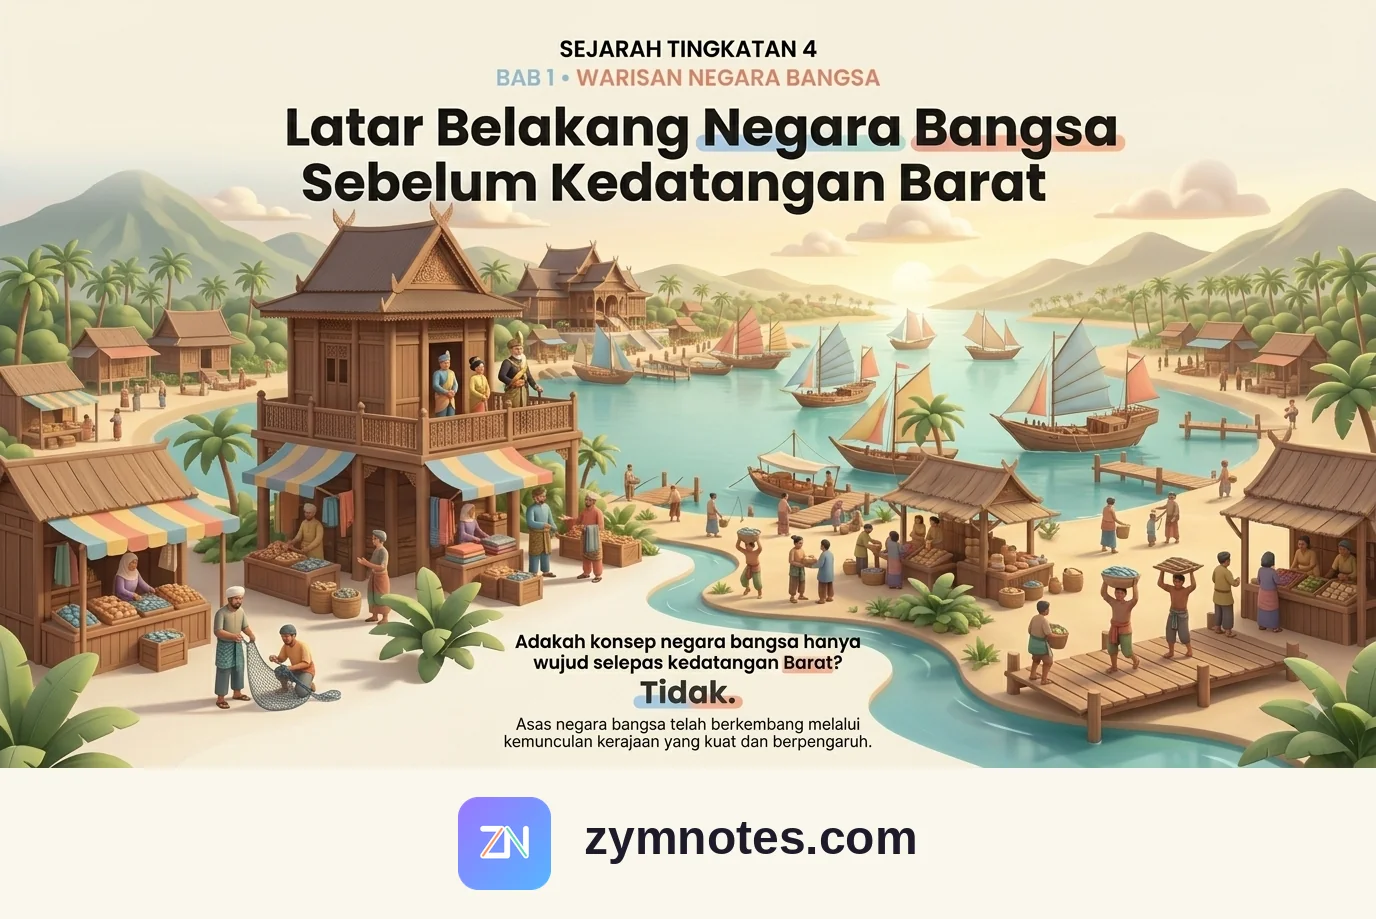
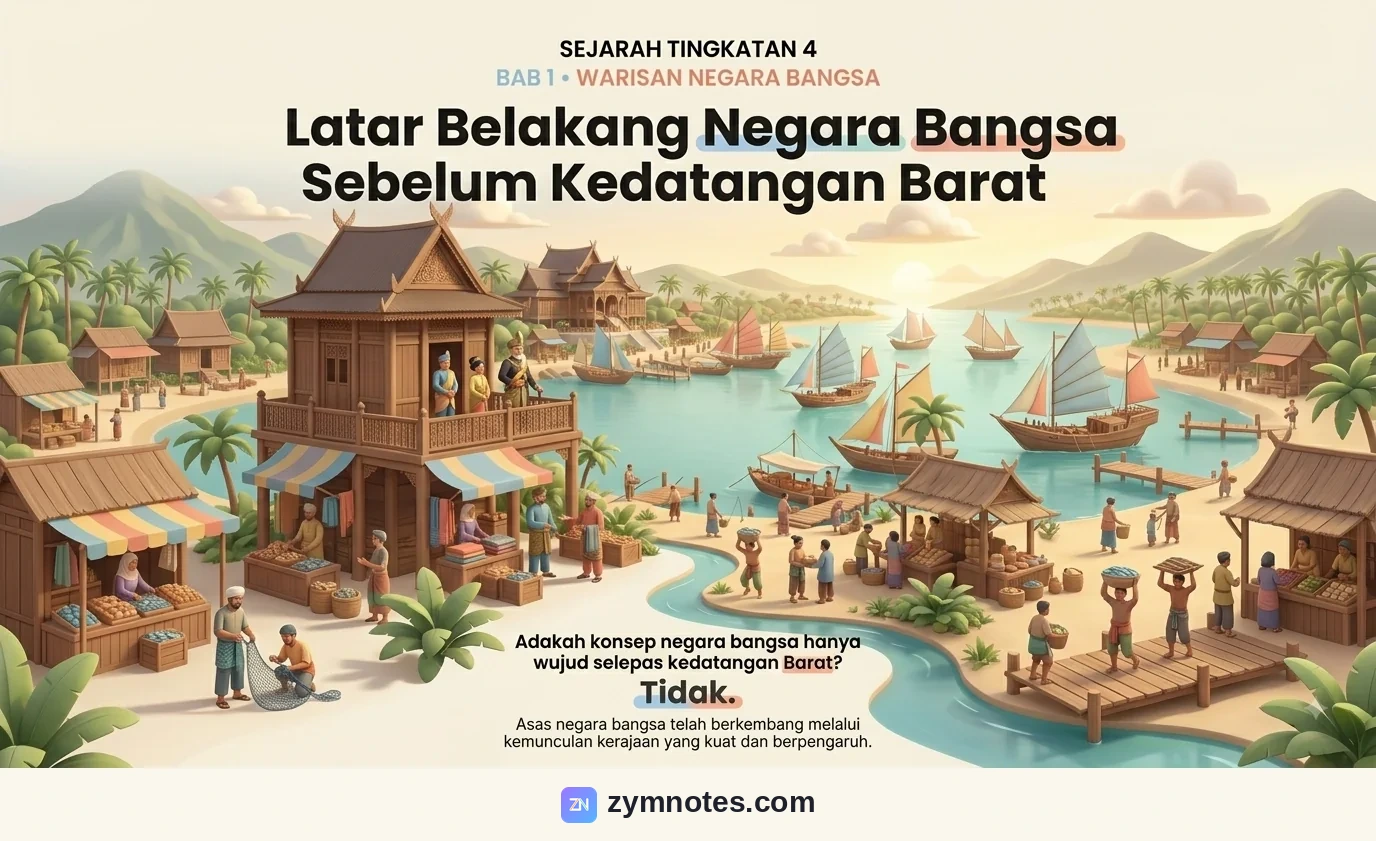
Kemaskan watermark footer teaser SEO infografik (terlalu besar)
Jalur watermark "zymnotes.com" pd seo-thumbnail.webp dilaporkan
"terlalu besar" — pengukuran pixel sahkan ~150px (17% tinggi imej),
logo ~80px & fon besar, jauh lebih berat drpd watermark menegak slaid
carousel yg sengaja kecil. Fix: scripts/generate-teaser-thumbnail.py
(skrip BAHARU, persisted — sebelum ni "jalan manual" tanpa fail kekal)
crop ilustrasi asal (sempadan SAMA kedua-dua bab-1-1/bab-1-2, y=769
drpd 919px), jana jalur baharu jauh lebih kecil (72px, logo 36px, fon
30px). Kanvas akhir 1376x841 (drpd 1376x919).

Dimensi berubah — height="919"/og:image:height dikemas kini ke 841 di
KEDUA-DUA halaman (elak layout shift & preview kongsi terpotong).
imgVersion dinaikkan (bab-1-1 6→7, bab-1-2 5→6), SEMUA 7 rujukan
seo-thumbnail.webp?v=N setiap halaman dikemas kini serentak (teaser
statik TIADA auto-sync ?v=, beza drpd slaid carousel).

Disahkan: skrip hasilkan output IDENTIK piksel drpd fail sebenar dlm
repo (ImageChops.difference bbox None). Playwright sahkan jalur jauh
lebih kemas dlm konteks kad sebenar. seo-audit.py (117 halaman) & npm
run lint kekal lulus.

Dokumentasi dlm docs/infographic-gallery.md + ringkasan CLAUDE.md.

diff --git a/notes/bab-1-1.html b/notes/bab-1-1.html
@@ -12,12 +12,12 @@
 <meta content="Nota Sejarah Tingkatan 4 Bab 1.1: Latar Belakang Negara Bangsa Sebelum Kedatangan Barat | ZymNotes" property="og:title"/>
 <meta content="Nota Sejarah Tingkatan 4 Bab 1.1 (Warisan Negara Bangsa): Latar Belakang Negara Bangsa Sebelum Kedatangan Barat. Ringkasan padat untuk ulang kaji SPM." property="og:description"/>
 <meta content="https://zymnotes.com/notes/bab-1-1.html" property="og:url"/>
-<meta content="https://zymnotes.com/assets/infographics/bab-1-1/seo-thumbnail.webp?v=5" property="og:image"/>
-<meta content="https://zymnotes.com/assets/infographics/bab-1-1/seo-thumbnail.webp?v=5" property="og:image:url"/>
+<meta content="https://zymnotes.com/assets/infographics/bab-1-1/seo-thumbnail.webp?v=7" property="og:image"/>
+<meta content="https://zymnotes.com/assets/infographics/bab-1-1/seo-thumbnail.webp?v=7" property="og:image:url"/>
 <meta content="image/webp" property="og:image:type"/>
-<meta content="https://zymnotes.com/assets/infographics/bab-1-1/seo-thumbnail.webp?v=5" property="og:image:secure_url"/>
+<meta content="https://zymnotes.com/assets/infographics/bab-1-1/seo-thumbnail.webp?v=7" property="og:image:secure_url"/>
 <meta content="1376" property="og:image:width"/>
-<meta content="919" property="og:image:height"/>
+<meta content="841" property="og:image:height"/>
 <meta content="Muka hadapan infografik: Sejarah Tingkatan 4, Bab 1 Warisan Negara Bangsa — Latar Belakang Negara Bangsa Sebelum Kedatangan Barat. Soalan Utama: Adakah konsep negara bangsa hanya wujud selepas kedatangan Barat? Jawapan: Tidak, asas negara bangsa telah berkembang melalui kemunculan kerajaan yang kuat dan berpengaruh" property="og:image:alt"/>
 <meta content="website" property="og:type"/>
 <meta content="ZymNotes" property="og:site_name"/>
@@ -26,8 +26,8 @@
 <meta content="summary_large_image" name="twitter:card"/>
 <meta content="Nota Sejarah Tingkatan 4 Bab 1.1: Latar Belakang Negara Bangsa Sebelum Kedatangan Barat | ZymNotes" name="twitter:title"/>
 <meta content="Nota Sejarah Tingkatan 4 Bab 1.1 (Warisan Negara Bangsa): Latar Belakang Negara Bangsa Sebelum Kedatangan Barat. Ringkasan padat untuk ulang kaji SPM." name="twitter:description"/>
-<meta content="https://zymnotes.com/assets/infographics/bab-1-1/seo-thumbnail.webp?v=5" name="twitter:image"/>
-<meta content="https://zymnotes.com/assets/infographics/bab-1-1/seo-thumbnail.webp?v=5" name="twitter:image:src"/>
+<meta content="https://zymnotes.com/assets/infographics/bab-1-1/seo-thumbnail.webp?v=7" name="twitter:image"/>
+<meta content="https://zymnotes.com/assets/infographics/bab-1-1/seo-thumbnail.webp?v=7" name="twitter:image:src"/>
 <link href="https://fonts.googleapis.com" rel="preconnect"/>
 <link crossorigin="" href="https://fonts.gstatic.com" rel="preconnect"/>
 <link as="style" href="https://fonts.googleapis.com/css2?family=Fredoka:wght@300;400;500;600&amp;family=Nunito:ital,wght@0,400;0,500;0,600;0,700;0,800;1,400&amp;family=Lexend:wght@400;500;600;700;800&amp;display=swap" onload="this.onload=null;this.rel='stylesheet'" rel="preload"/><noscript><link href="https://fonts.googleapis.com/css2?family=Fredoka:wght@300;400;500;600&amp;family=Nunito:ital,wght@0,400;0,500;0,600;0,700;0,800;1,400&amp;family=Lexend:wght@400;500;600;700;800&amp;display=swap" rel="stylesheet"/></noscript>
@@ -122,8 +122,8 @@
 <div class="paper-label small">Infografik</div>
 <h2><img class="fluent-3d-emoji openmoji--inline" src="https://cdn.jsdelivr.net/gh/microsoft/fluentui-emoji@62ecdc0d7ca5/assets/Bar%20chart/3D/bar_chart_3d.png" width="22" height="22" alt="" decoding="async" loading="lazy" /> Lihat Infografik 1.1</h2>
 </div>
-<a class="note-infographic-teaser" id="zym-ig-seo-teaser" href="../assets/infographics/bab-1-1/seo-thumbnail.webp?v=5" aria-label="Lihat infografik penuh — 1.1 Latar Belakang Negara Bangsa Sebelum Kedatangan Barat">
-<img src="../assets/infographics/bab-1-1/seo-thumbnail.webp?v=5" width="1376" height="919" alt="Muka hadapan infografik: Sejarah Tingkatan 4, Bab 1 Warisan Negara Bangsa — Latar Belakang Negara Bangsa Sebelum Kedatangan Barat. Soalan Utama: Adakah konsep negara bangsa hanya wujud selepas kedatangan Barat? Jawapan: Tidak, asas negara bangsa telah berkembang melalui kemunculan kerajaan yang kuat dan berpengaruh" loading="lazy" decoding="async" />
+<a class="note-infographic-teaser" id="zym-ig-seo-teaser" href="../assets/infographics/bab-1-1/seo-thumbnail.webp?v=7" aria-label="Lihat infografik penuh — 1.1 Latar Belakang Negara Bangsa Sebelum Kedatangan Barat">
+<img src="../assets/infographics/bab-1-1/seo-thumbnail.webp?v=7" width="1376" height="841" alt="Muka hadapan infografik: Sejarah Tingkatan 4, Bab 1 Warisan Negara Bangsa — Latar Belakang Negara Bangsa Sebelum Kedatangan Barat. Soalan Utama: Adakah konsep negara bangsa hanya wujud selepas kedatangan Barat? Jawapan: Tidak, asas negara bangsa telah berkembang melalui kemunculan kerajaan yang kuat dan berpengaruh" loading="lazy" decoding="async" />
 </a>
 <div class="note-audio-player">
 <audio class="audio-src" preload="metadata" src="../assets/audio/bab-1-1.mp3"></audio>

diff --git a/notes/bab-1-2.html b/notes/bab-1-2.html
@@ -12,12 +12,12 @@
 <meta content="Nota Sejarah Tingkatan 4 Bab 1.2: Ciri-ciri Negara Bangsa Kesultanan Melayu Melaka | ZymNotes" property="og:title"/>
 <meta content="Nota Sejarah Tingkatan 4 Bab 1.2 (Warisan Negara Bangsa): Ciri-ciri Negara Bangsa Kesultanan Melayu Melaka. Ringkasan padat untuk ulang kaji SPM." property="og:description"/>
 <meta content="https://zymnotes.com/notes/bab-1-2.html" property="og:url"/>
-<meta content="https://zymnotes.com/assets/infographics/bab-1-2/seo-thumbnail.webp?v=4" property="og:image"/>
-<meta content="https://zymnotes.com/assets/infographics/bab-1-2/seo-thumbnail.webp?v=4" property="og:image:url"/>
+<meta content="https://zymnotes.com/assets/infographics/bab-1-2/seo-thumbnail.webp?v=6" property="og:image"/>
+<meta content="https://zymnotes.com/assets/infographics/bab-1-2/seo-thumbnail.webp?v=6" property="og:image:url"/>
 <meta content="image/webp" property="og:image:type"/>
-<meta content="https://zymnotes.com/assets/infographics/bab-1-2/seo-thumbnail.webp?v=4" property="og:image:secure_url"/>
+<meta content="https://zymnotes.com/assets/infographics/bab-1-2/seo-thumbnail.webp?v=6" property="og:image:secure_url"/>
 <meta content="1376" property="og:image:width"/>
-<meta content="919" property="og:image:height"/>
+<meta content="841" property="og:image:height"/>
 <meta content="Muka hadapan infografik: Ciri-ciri Negara Bangsa Kesultanan Melayu Melaka. Kesultanan Melayu Melaka mempunyai sistem pemerintahan yang tersusun dan lengkap. Enam ciri utama membuktikan pembentukan negara bangsa yang kukuh sebelum kedatangan Barat" property="og:image:alt"/>
 <meta content="website" property="og:type"/>
 <meta content="ZymNotes" property="og:site_name"/>
@@ -26,8 +26,8 @@
 <meta content="summary_large_image" name="twitter:card"/>
 <meta content="Nota Sejarah Tingkatan 4 Bab 1.2: Ciri-ciri Negara Bangsa Kesultanan Melayu Melaka | ZymNotes" name="twitter:title"/>
 <meta content="Nota Sejarah Tingkatan 4 Bab 1.2 (Warisan Negara Bangsa): Ciri-ciri Negara Bangsa Kesultanan Melayu Melaka. Ringkasan padat untuk ulang kaji SPM." name="twitter:description"/>
-<meta content="https://zymnotes.com/assets/infographics/bab-1-2/seo-thumbnail.webp?v=4" name="twitter:image"/>
-<meta content="https://zymnotes.com/assets/infographics/bab-1-2/seo-thumbnail.webp?v=4" name="twitter:image:src"/>
+<meta content="https://zymnotes.com/assets/infographics/bab-1-2/seo-thumbnail.webp?v=6" name="twitter:image"/>
+<meta content="https://zymnotes.com/assets/infographics/bab-1-2/seo-thumbnail.webp?v=6" name="twitter:image:src"/>
 <link href="https://fonts.googleapis.com" rel="preconnect"/>
 <link crossorigin="" href="https://fonts.gstatic.com" rel="preconnect"/>
 <link as="style" href="https://fonts.googleapis.com/css2?family=Fredoka:wght@300;400;500;600&amp;family=Nunito:ital,wght@0,400;0,500;0,600;0,700;0,800;1,400&amp;family=Lexend:wght@400;500;600;700;800&amp;display=swap" onload="this.onload=null;this.rel='stylesheet'" rel="preload"/><noscript><link href="https://fonts.googleapis.com/css2?family=Fredoka:wght@300;400;500;600&amp;family=Nunito:ital,wght@0,400;0,500;0,600;0,700;0,800;1,400&amp;family=Lexend:wght@400;500;600;700;800&amp;display=swap" rel="stylesheet"/></noscript>
@@ -118,8 +118,8 @@
 <div class="paper-label small">Infografik</div>
 <h2><img class="fluent-3d-emoji openmoji--inline" src="https://cdn.jsdelivr.net/gh/microsoft/fluentui-emoji@62ecdc0d7ca5/assets/Bar%20chart/3D/bar_chart_3d.png" width="22" height="22" alt="" decoding="async" loading="lazy" /> Lihat Infografik 1.2</h2>
 </div>
-<a class="note-infographic-teaser" id="zym-ig-seo-teaser" href="../assets/infographics/bab-1-2/seo-thumbnail.webp?v=4" aria-label="Lihat infografik penuh — 1.2 Ciri-ciri Negara Bangsa Kesultanan Melayu Melaka">
-<img src="../assets/infographics/bab-1-2/seo-thumbnail.webp?v=4" width="1376" height="919" alt="Muka hadapan infografik: Ciri-ciri Negara Bangsa Kesultanan Melayu Melaka. Kesultanan Melayu Melaka mempunyai sistem pemerintahan yang tersusun dan lengkap. Enam ciri utama membuktikan pembentukan negara bangsa yang kukuh sebelum kedatangan Barat" loading="lazy" decoding="async" />
+<a class="note-infographic-teaser" id="zym-ig-seo-teaser" href="../assets/infographics/bab-1-2/seo-thumbnail.webp?v=6" aria-label="Lihat infografik penuh — 1.2 Ciri-ciri Negara Bangsa Kesultanan Melayu Melaka">
+<img src="../assets/infographics/bab-1-2/seo-thumbnail.webp?v=6" width="1376" height="841" alt="Muka hadapan infografik: Ciri-ciri Negara Bangsa Kesultanan Melayu Melaka. Kesultanan Melayu Melaka mempunyai sistem pemerintahan yang tersusun dan lengkap. Enam ciri utama membuktikan pembentukan negara bangsa yang kukuh sebelum kedatangan Barat" loading="lazy" decoding="async" />
 </a>
 <div class="note-audio-player">
 <audio class="audio-src" preload="metadata" src="../assets/audio/bab-1-2.mp3"></audio>

diff --git a/assets/js/main.js b/assets/js/main.js
@@ -2435,7 +2435,12 @@ var HZ_INFOGRAPHIC_PAGES = {
     // watermark menegak kecil sudut kanan-bawah ("zymnotes.com") via
     // scripts/watermark-infographic-slides.py — rujuk docs/infographic-
     // gallery.md §"Watermark menegak pd slaid carousel".
-    imgVersion: 6,
+    // v7 (2026-08-14): seo-thumbnail.webp — jalur watermark footer
+    // disusutkan drpd ~150px (17% tinggi) kpd ~72px (logo 36px, font
+    // 30px), dijana semula drpd ilustrasi asal (crop 1376×769) + jalur
+    // baharu (kanvas kini 1376×841, drpd 1376×919) — rujuk docs/
+    // infographic-gallery.md §"Watermark teaser terlalu besar".
+    imgVersion: 7,
     slides: [
       { file: '01-pengenalan.webp', alt: 'Muka hadapan: Sejarah Tingkatan 4, Bab 1 Warisan Negara Bangsa — Latar Belakang Negara Bangsa Sebelum Kedatangan Barat. Soalan Utama: Adakah konsep negara bangsa hanya wujud selepas kedatangan Barat? Jawapan: Tidak, asas negara bangsa telah berkembang melalui kemunculan kerajaan yang kuat dan berpengaruh' },
       { file: '02-empat-perkara-utama.webp', alt: 'Empat Perkara Utama: Proses Pembentukan Negara Bangsa, Kehebatan Kerajaan Alam Melayu, Empat Unsur Utama Negara Bangsa, Kesinambungan Negara Bangsa di Alam Melayu' },
@@ -2466,7 +2471,12 @@ var HZ_INFOGRAPHIC_PAGES = {
     // watermark menegak kecil sudut kanan-bawah ("zymnotes.com") via
     // scripts/watermark-infographic-slides.py — rujuk docs/infographic-
     // gallery.md §"Watermark menegak pd slaid carousel".
-    imgVersion: 5,
+    // v6 (2026-08-14): seo-thumbnail.webp — jalur watermark footer
+    // disusutkan drpd ~150px (17% tinggi) kpd ~72px (logo 36px, font
+    // 30px), dijana semula drpd ilustrasi asal (crop 1376×769) + jalur
+    // baharu (kanvas kini 1376×841, drpd 1376×919) — rujuk docs/
+    // infographic-gallery.md §"Watermark teaser terlalu besar".
+    imgVersion: 6,
     slides: [
       { file: '01-pengenalan.webp', alt: 'Muka hadapan: Ciri-ciri Negara Bangsa Kesultanan Melayu Melaka. Kesultanan Melayu Melaka mempunyai sistem pemerintahan yang tersusun dan lengkap. Enam ciri utama membuktikan pembentukan negara bangsa yang kukuh sebelum kedatangan Barat' },
       { file: '02-enam-ciri-utama.webp', alt: 'Enam Ciri Utama Negara Bangsa: Kerajaan, Rakyat, Kedaulatan, Wilayah Pengaruh, Undang-undang, Lambang Kebesaran — keenam-enam ciri ini membentuk negara bangsa yang kukuh di Kesultanan Melayu Melaka' },

diff --git a/scripts/generate-teaser-thumbnail.py b/scripts/generate-teaser-thumbnail.py
@@ -1,0 +1,67 @@
+#!/usr/bin/env python3
+"""Jana seo-thumbnail.webp — imej cover teaser SEO infografik (statik dlm
+HTML, rujuk docs/infographic-gallery.md §"Teaser SEO Infografik") drpd
+ilustrasi SUMBER (BELUM ada watermark) + jalur footer "zymnotes.com".
+
+Guna:
+  python3 scripts/generate-teaser-thumbnail.py <ilustrasi-sumber.png> \
+      assets/infographics/<slug>/seo-thumbnail.webp
+
+Jalur footer KEKAL KECIL (~72px, ~9% tinggi ilustrasi) — versi awal
+(~150px, ~17%) dilaporkan pengguna "terlalu besar", rujuk docs/
+infographic-gallery.md §"Watermark teaser terlalu besar" utk sejarah.
+"""
+import sys
+from pathlib import Path
+from PIL import Image, ImageDraw, ImageFont
+
+FONT_PATH = "/usr/share/fonts/truetype/liberation/LiberationSans-Bold.ttf"
+LOGO_PATH = Path(__file__).resolve().parent.parent / "icons" / "icon-512.png"
+TEXT = "zymnotes.com"
+STRIP_H = 72
+LOGO_SIZE = 36
+FONT_SIZE = 30
+STRIP_BG = (250, 247, 238)
+TEXT_COLOR = (30, 32, 42)
+
+
+def generate(src_path: Path, out_path: Path) -> None:
+    illust = Image.open(src_path).convert("RGB")
+    w, h = illust.size
+
+    canvas = Image.new("RGB", (w, h + STRIP_H), STRIP_BG)
+    canvas.paste(illust, (0, 0))
+
+    logo = Image.open(LOGO_PATH).convert("RGBA").resize((LOGO_SIZE, LOGO_SIZE), Image.LANCZOS)
+    font = ImageFont.truetype(FONT_PATH, FONT_SIZE)
+    draw = ImageDraw.Draw(canvas)
+
+    bbox = draw.textbbox((0, 0), TEXT, font=font)
+    text_w = bbox[2] - bbox[0]
+    text_h = bbox[3] - bbox[1]
+    gap = int(LOGO_SIZE * 0.28)
+
+    total_w = LOGO_SIZE + gap + text_w
+    start_x = (w - total_w) // 2
+    strip_center_y = h + STRIP_H // 2
+
+    logo_y = strip_center_y - LOGO_SIZE // 2
+    canvas.paste(logo, (start_x, logo_y), logo)
+
+    text_x = start_x + LOGO_SIZE + gap
+    text_y = strip_center_y - text_h // 2 - bbox[1]
+    draw.text((text_x, text_y), TEXT, font=font, fill=TEXT_COLOR)
+
+    canvas.save(out_path, "WEBP", quality=92, method=6)
+    print(f"saved: {out_path} ({canvas.width}x{canvas.height})")
+
+
+def main(argv):
+    if len(argv) != 2:
+        print(__doc__)
+        sys.exit(1)
+    generate(Path(argv[0]), Path(argv[1]))
+
+
+if __name__ == "__main__":
+    main(sys.argv[1:])

diff --git a/docs/infographic-gallery.md b/docs/infographic-gallery.md
@@ -475,6 +475,53 @@ Infografik 1.1"/"1.2"); klik `#zym-ig-seo-teaser` disahkan MASIH buka
 tersentuh). `scripts/seo-audit.py` (117 halaman) & `npm run lint`
 kekal lulus.
 
+## Watermark teaser terlalu besar (2026-08-14)
+
+**Isu**: pengguna laporkan (via tangkapan skrin) jalur watermark
+footer "zymnotes.com" (§"Teaser SEO Infografik" atas) pd
+`seo-thumbnail.webp` "terlalu besar" — nampak berat berbanding
+kandungan ilustrasi di atasnya. Pengukuran pixel (Python/Pillow, scan
+baris cari sempadan warna rata jalur vs ilustrasi bervariasi) sahkan:
+jalur asal **~150px** (~17% drpd tinggi imej 919px), logo ~80px & fon
+besar — jauh lebih besar drpd watermark menegak slaid carousel yg
+BAHARU sahaja ditambah (§"Watermark menegak pd slaid carousel" atas,
+sengaja KECIL/tak menonjol).
+
+**Fix**: `scripts/generate-teaser-thumbnail.py` (skrip BAHARU,
+Pillow — **skrip pertama yg PERSISTED** utk teaser SEO; sebelum ni
+dicatat sbg "bukan automatik, jalan manual" tanpa fail kekal, rujuk
+§"Teaser SEO Infografik" atas) — crop ilustrasi asal drpd imej sedia
+ada (kedua-dua `bab-1-1`/`bab-1-2` disahkan sempadan SAMA, `y=769`
+drpd tinggi 919px total, via pengesanan baris rata di atas), jana
+semula jalur footer BAHARU jauh lebih kecil: **72px** (drpd 150px),
+logo **36px** (drpd ~80px), fon **30px**. Kanvas akhir kini
+`1376×841` (drpd `1376×919`).
+
+**AWAS — dimensi imej BERUBAH (919→841 tinggi)**, jadi SEMUA rujukan
+`height="919"` (attribute `<img>`) & `content="919"` (`og:image:
+height`) di `notes/bab-1-1.html`/`bab-1-2.html` WAJIB dikemas kini
+SERENTAK ke `841` — terlepas ni sebabkan `<img>` browser reserve ruang
+salah (layout shift) & preview kongsi (WhatsApp/FB) papar imej
+terpotong/regang (nisbah bidang tak padan `og:image:width`/`height`
+yg diisytiharkan).
+
+`imgVersion` dinaikkan (bab-1-1: 6→7, bab-1-2: 5→6) & SEMUA rujukan
+`seo-thumbnail.webp?v=N` (`og:image`/`og:image:url`/`og:image:
+secure_url`/`twitter:image`/`twitter:image:src`/`<a href>`/`<img
+src>` — 7 tempat setiap halaman) dikemas kini SERENTAK, ikut disiplin
+`imgVersion` sedia ada (§"Infografik Galeri" atas) — teaser statik
+TIADA auto-sync `?v=` (beza drpd slaid carousel yg `buildOverlay()`
+lampirkan sendiri), jadi WAJIB sunting manual setiap tempat.
+
+Disahkan: `scripts/generate-teaser-thumbnail.py` diuji hasilkan output
+**IDENTIK piksel** (`ImageChops.difference` bbox `None`) drpd fail
+sebenar dlm repo (bukti skrip boleh guna semula tepat utk subtopik
+akan datang, bukan sekadar "kira-kira sama"); Playwright (kedua-dua
+halaman, viewport 390px) sahkan jalur kelihatan jauh lebih kemas &
+proporsional dlm konteks kad sebenar (tangkapan skrin + zum sudut
+jalur); `scripts/seo-audit.py` (117 halaman) & `npm run lint` kekal
+lulus.
+
 ## `og:image`/`twitter:image` guna teaser infografik pd halaman berkenaan (2026-08-14)
 
 **Sebelum ni SEMUA halaman `notes/*.html` (termasuk yg ADA infografik)

diff --git a/CLAUDE.md b/CLAUDE.md
@@ -918,7 +918,9 @@ FAB reaksi "Suka" — rujuk **`docs/infographic-gallery.md`** sebelum ubah
   automatik** — bila tambah subtopik ke `HZ_INFOGRAPHIC_PAGES` atau
   naikkan `imgVersion`, WAJIB kemas kini 5 tag `og:image*`/
   `twitter:image*` di `<head>` halaman tu SERENTAK (dims sebenar
-  `1376×919`, bukan `1200×630` OG piawai).
+  `1376×841`, bukan `1200×630` OG piawai — turut kemas kini `<img
+  height>`/`og:image:height` kalau imej teaser dijana semula, rujuk
+  `scripts/generate-teaser-thumbnail.py` di bawah).
 - **SETIAP slaid carousel (bukan cuma `seo-thumbnail.webp`) WAJIB
   watermark menegak** (`scripts/watermark-infographic-slides.py`, sudut
   kanan-bawah, "zymnotes.com") — menu "Download image"/"Share image"
@@ -927,6 +929,11 @@ FAB reaksi "Suka" — rujuk **`docs/infographic-gallery.md`** sebelum ubah
   subtopik baharu ke `HZ_INFOGRAPHIC_PAGES`, & naikkan `imgVersion`
   (cache-bust auto via `buildOverlay()`, TAK perlu sunting HTML manual
   — beza drpd teaser SEO).
+- **`scripts/generate-teaser-thumbnail.py`** jana `seo-thumbnail.webp`
+  drpd ilustrasi SUMBER (belum ada watermark) — jalur footer KEKAL
+  KECIL (~72px, logo 36px, fon 30px; versi awal ~150px dilaporkan
+  "terlalu besar"). Guna skrip ni (bukan karang jalur baharu manual)
+  bila cover subtopik baharu/diganti — output kanvas `1376×841`.
 - **Teaser SEO TIADA lagi kotak CTA gradien** (dibuang — "menganggu",
   asing drpd bahasa visual laman) — gantinya tajuk gaya "Bahagian N"
   sedia ada (`.section-heading.note-infographic-heading`, label pil
